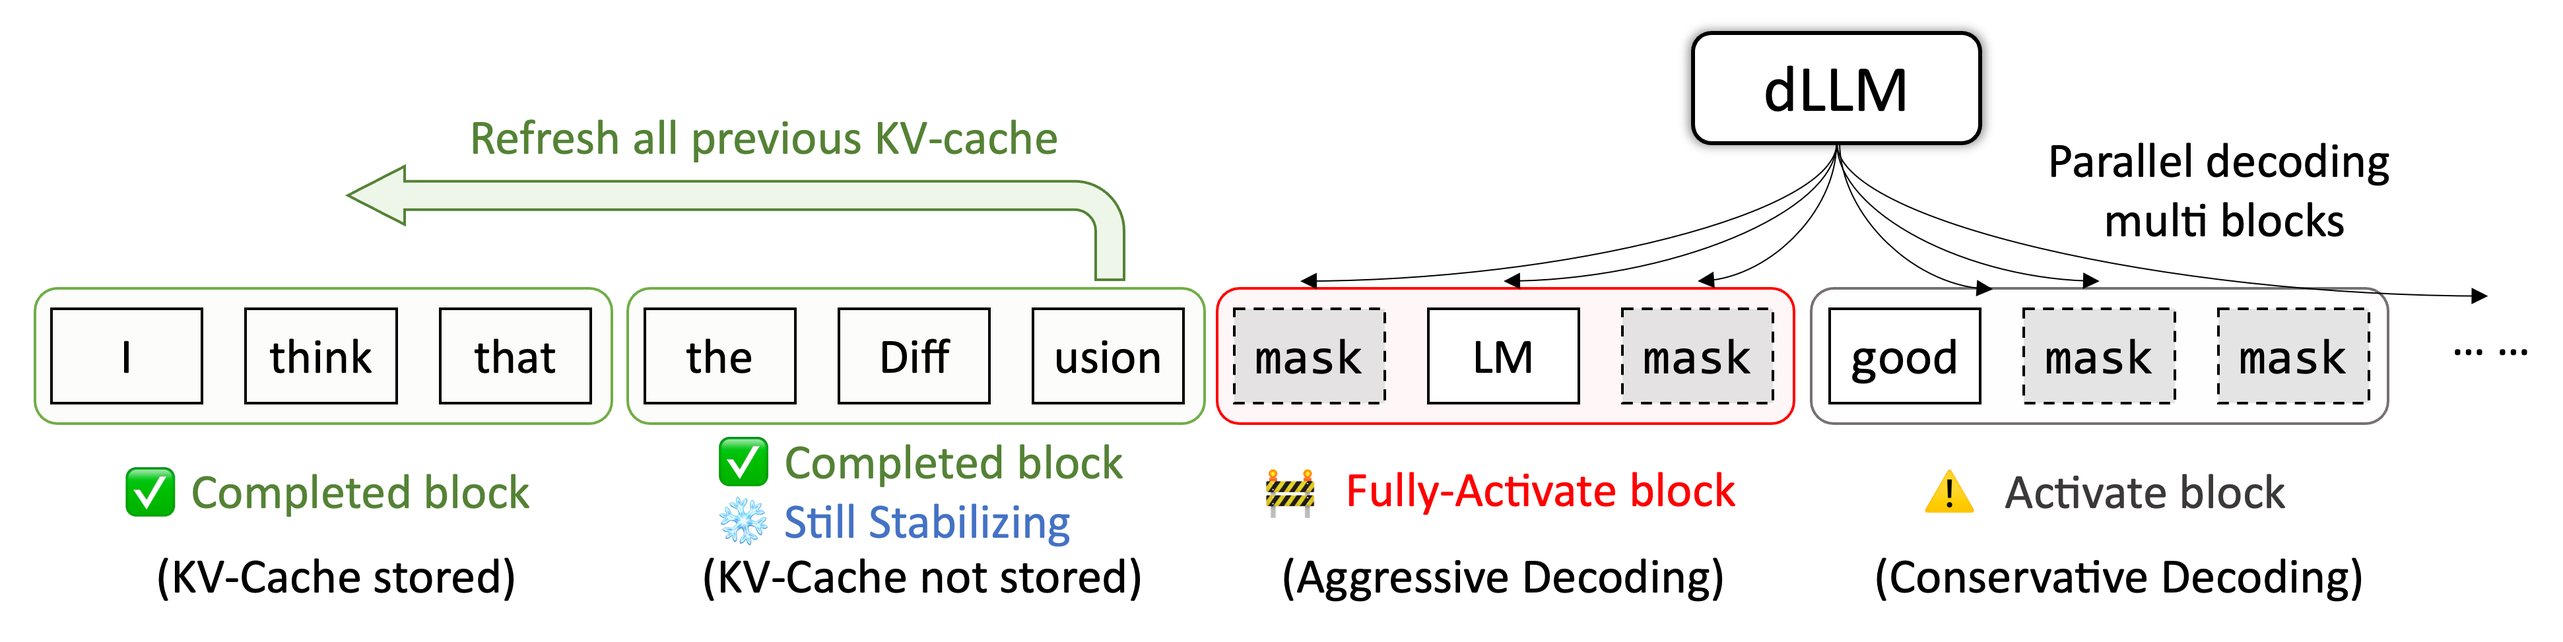
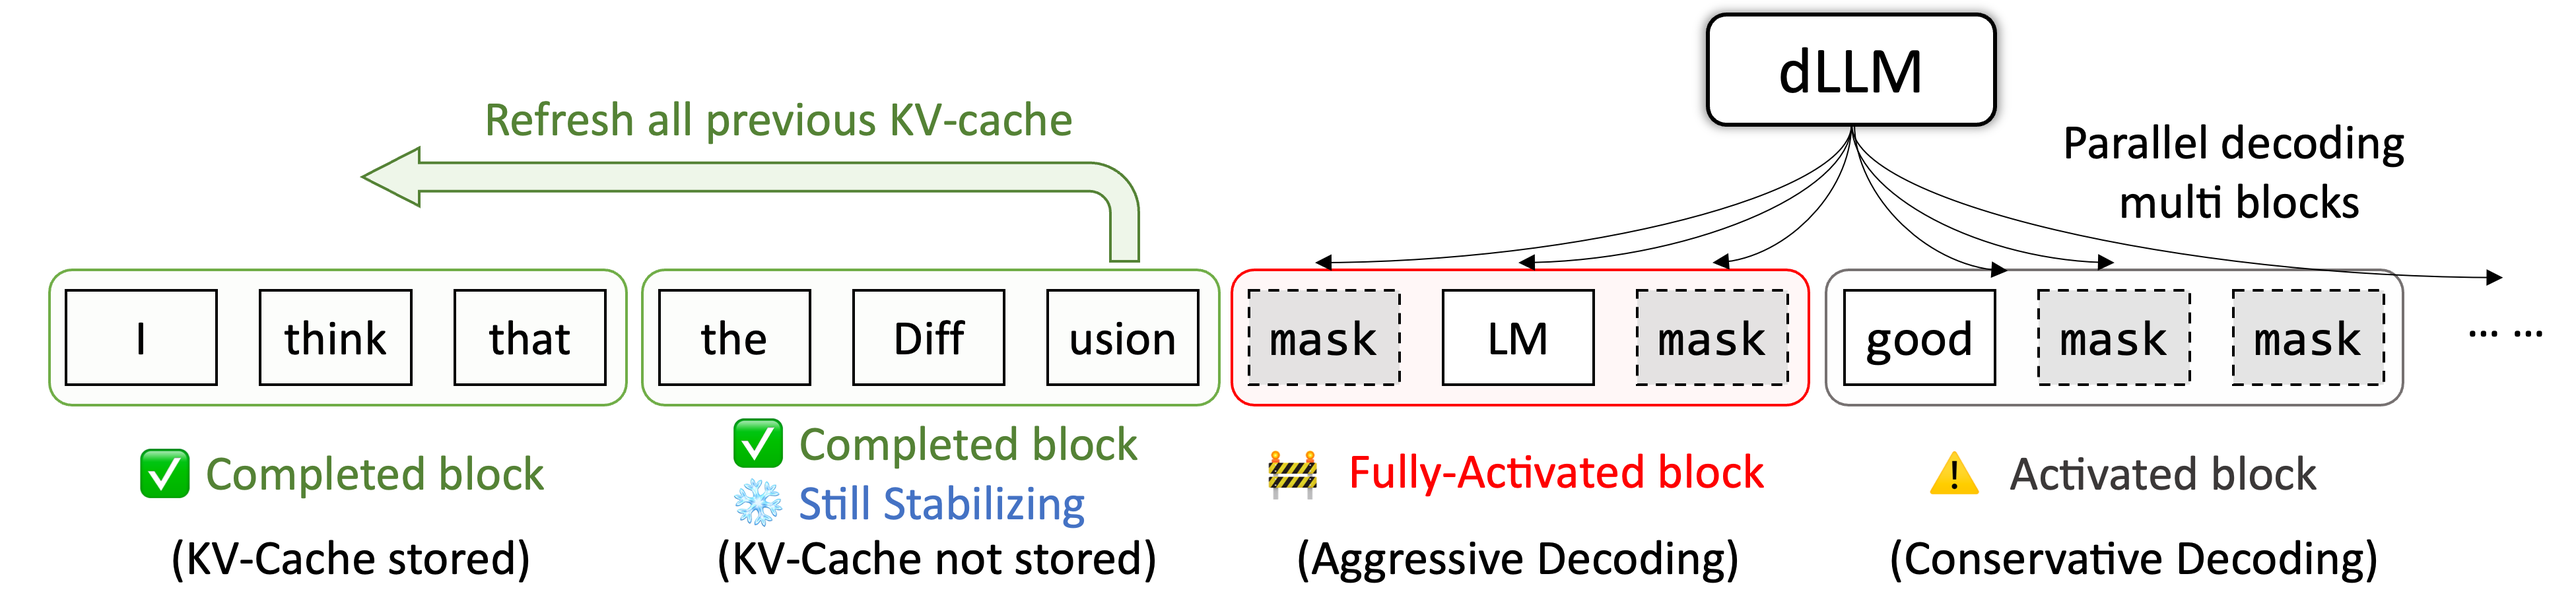
Refine text, update img

diff --git a/content/blogs/text-diffusion/index.md b/content/blogs/text-diffusion/index.md
@@ -23,7 +23,7 @@ draft = false
 
 {{< justify >}}
 
-**TL;DR:** Existing dLLM works often focus on either one side (either efficiency or performance) of dLLM. In this work, we introduce a new metric, *Accuracy Under Parallelism* (AUP), that jointly evaluates the performance and parallelism of diffusion large language models (dLLMs). To achieve a higher AUP, we propose *d3LLM* (*pseuDo-Distilled Diffusion LLM*), a framework that incorporates a novel distillation method and decoding strategy, achieving a balance between efficiency and performance.
+**TL;DR:** Existing dLLM works typically focus on either one side (either efficiency or performance) of dLLM. In this work, we introduce a new metric, *Accuracy Under Parallelism* (AUP), that jointly evaluates the performance and parallelism of diffusion large language models (dLLMs). To achieve a higher AUP, we propose *d3LLM* (*pseuDo-Distilled Diffusion LLM*), a framework that incorporates a novel distillation method and decoding strategy, achieving a balance between efficiency and performance.
 
 
 {{< /justify >}}
@@ -95,9 +95,9 @@ draft = false
 
 Diffusion large language models (dLLMs) have emerged as a promising alternative to autoregressive (AR) LLMs. A key advantage of dLLMs is the use of *bidirectional attention*, which enables parallel decoding, error correction, and random-order generation—capabilities that are not feasible for AR models. Recently, several closed-source diffusion models, including [Mercury](https://arxiv.org/abs/2506.17298), [Gemini Diffusion](https://deepmind.google/models/gemini-diffusion/), and [Seed Diffusion](https://arxiv.org/abs/2508.02193), have demonstrated impressive efficiency and performance, achieving high decoding speeds and competitive results relative to AR models. In contrast, open-source diffusion language models have shown substantially ***lower throughput***, often performing even slower than AR LLMs. For example, [LLaDA](https://arxiv.org/abs/2502.09992) and [Dream](https://arxiv.org/abs/2508.15487) reach only about 20 tokens per second, whereas closed-source dLLMs exceed 1000 tokens per second. Besides, the ***inferior performance*** of open-sourced dLLMs compared to similar-sized AR models also limits their practical applications.
 
-With the growing interest from the research community, an increasing number of methods have been proposed to improve the dLLMs. On one side, many recent efforts focus on accelerating diffusion language models by designing KV-cache mechanisms, parallel decoding strategies, and other system-level optimizations [[1](https://arxiv.org/abs/2505.22618), [2](https://arxiv.org/abs/2505.15781), [3](https://arxiv.org/abs/2508.09192), [4](https://arxiv.org/abs/2509.26488), [5](https://arxiv.org/abs/2509.26328), [6](https://arxiv.org/abs/2510.08666)]. On the other side, another line of work focuses on improving their performance by employing more advanced training strategies, extending context length, multi-modal capabilities, incorporating reasoning capabilities, and collecting larger or higher-quality datasets [[7](https://huggingface.co/collections/inclusionAI/llada-20), [8](https://arxiv.org/abs/2510.06303), [9](https://arxiv.org/abs/2505.15809)]. However, we find that: ***most previous works focus on either one side (either efficiency or performance) of dLLM***. 
+With growing interest from the research community, an increasing number of methods have been proposed to improve dLLMs. On one hand, many recent efforts aim to accelerate diffusion language models by designing KV-cache mechanisms, parallel decoding strategies, and other system-level optimizations [[1](https://arxiv.org/abs/2505.22618), [2](https://arxiv.org/abs/2505.15781), [3](https://arxiv.org/abs/2508.09192), [4](https://arxiv.org/abs/2509.26488), [5](https://arxiv.org/abs/2509.26328), [6](https://arxiv.org/abs/2510.08666)]. On the other hand, another line of work focuses on improving performance by employing more advanced training strategies, extending context length and multimodal capabilities, incorporating reasoning abilities, and collecting larger or higher-quality datasets [[7](https://huggingface.co/collections/inclusionAI/llada-20), [8](https://arxiv.org/abs/2510.06303), [9](https://arxiv.org/abs/2505.15809)]. However, we observe that ***most previous works focus on only one side of dLLMs, targeting either efficiency or performance***.
 
-We argue that this may because of the misuse of a only a single metric, that existing studies relying and reporting on separate single metrics when assessing dLLMs, such as only reporting tokens per second (TPS) for efficiency, or accuracy for model quality. This may lead to a lack consideration of the ***trade-off*** between efficiency and performance: higher efficiency often leads to lower accuracy, and vice versa. For example, as illustrated in the table below, D2F focuses on improving the efficiency of dLLM, achieve strong parallelism with high tokens per forward (TPF) but experience notable accuracy degradation; whereas Fast-dLLM-v2 focuses on improving the performance of dLLM, achieve high accuracy but exhibit lower TPF. This motivates us to *design an integrated metric that can account for both efficiency and performance*, guide the model to ***striking a balance*** between both, and use this ***integrated metric*** to evaluate the model.
+We argue that this issue arises from the limitations of relying on a single metric. Existing studies often evaluate dLLMs using isolated metrics, such as reporting only tokens per second (TPS) for efficiency or accuracy for model performance. This approach overlooks the inherent ***trade-off*** between efficiency and performance: higher efficiency often leads to lower accuracy, and vice versa. For example, as shown in the table below, D2F emphasizes efficiency by achieving high tokens per forward (TPF) through improved parallelism, but suffers a drop in accuracy. In contrast, Fast-dLLM-v2 achieves higher performance compared to other dLLMs, but with a cost of lower TPF. These observations motivate us to *design an integrated metric* that captures both efficiency and performance, guiding models to ***striking a balance*** between both.
 
 {{< /justify >}}
 
@@ -105,13 +105,14 @@ We argue that this may because of the misuse of a only a single metric, that exi
 
 <figcaption style="text-align: center; color: #808080; margin-top: 10px;">Benchmark results of previous dLLM models, where accuracy and parallelism are evaluated separately using two different metrics (Acc and TPF respectively).</figcaption>
 
-## AUP: Considering Both Performance and Parallelism
+## AUP: Jointly Considering Both Performance and Parallelism
 
 {{< justify >}}
 
-Currently, most of the dLLM methods have a "threshold" when decoding, only the logits higher than the threshold are decoded. Then, by varying the threshold of different values, we can adjust the quality-speed trade-off of the decoding process, and get many parallelism-accuracy pairs, and then plot a curve of accuracy vs. parallelism. This curve is called the ***accuracy-parallelism curve*** (see Figure 1 for an illustration), characterizing a trade-off between efficiency and performance.
+Most dLLM methods adopt a decoding "threshold", where only logits above this threshold are decoded. By varying the threshold, we can adjust the quality–speed trade-off of the decoding process and obtain multiple parallelism–accuracy pairs, which can then be used to plot a curve of accuracy versus parallelism. We refer to this curve as the ***accuracy–parallelism curve*** (see the white curve in Figure 1 for an illustration), which characterizes the trade-off between efficiency and performance.
 
-The most naïve approach is to calculate a score using this curve is the *area under the curve* (AUC), but this is not a reasonable metric, because it is strongly influenced by parallelism even when accuracy degrades substantially, allowing low-quality but fast models to obtain high scores. To this end, we establish ***AUP*** (*Accuracy Under Parallelism*). AUP quantifies how well a model preserves accuracy as the degree of parallelism increases, providing a unified, device-independent measure of a dLLM’s both *efficiency* and *performance*.
+
+The most naïve approach is to calculate a score using this curve is the *area under the curve* (AUC), but this is not a reasonable metric, because it is strongly influenced by parallelism even when accuracy degrades substantially, allowing low-quality but fast models to obtain high scores. To this end, we establish ***AUP*** (*Accuracy Under Parallelism*). AUP quantifies how well a model preserves accuracy as the degree of parallelism increases, providing a unified measure of a dLLM’s both *efficiency* and *performance*.
 
 Formally, let $\mathcal{S} = \{(\rho_i, y_i)\}_{i=1}^m$ be a set of parallelism-accuracy pairs, where $\rho_1 < \rho_2 < \dots < \rho_m$, $\rho_i \in \mathbb{R}^{+}$ denotes the parallelism (measured in _tokens per forward_, TPF), and $y_i \in [0, 100]$ represents accuracy in percentage. We define a minimum accuracy threshold $y_{\min} = y_1 - 5$ to avoid measuring in regimes of significant accuracy degradation. Only points satisfying $y_i \ge y_{\min}$ are included. AUP is then defined as the weighted area under the accuracy-parallelism curve:
 
@@ -143,7 +144,7 @@ where the weighting function is defined as $W(y) = \min(e^{-\alpha \left(1 - {y}
 
 {{< justify >}}
 
-**Application of AUP.** We further evaluate previous methods using our AUP metric, as shown in the results in the [Leaderboard](#-diffusion-llm-leaderboard-using-aup-score), it shows that previous dLLM methods although achieve higher AUP then vanilla Dream and LLaDA, but they are not able to beat the speculative decoding methods (EAGLE-3). We claim that this do not Negated the capability of the dLLM. In the following, we will introduce our proposed d3LLM to achieve the highest AUP score in all dLLMs.
+**Application of AUP.** We further evaluate previous methods using our AUP metric. As shown in the results in the [Leaderboard](#-diffusion-llm-leaderboard-using-aup-score), although existing dLLM methods achieve higher AUP scores than vanilla Dream and LLaDA, they still lag behind speculative decoding methods (e.g., EAGLE-3). We argue that this does not negate the potential of dLLMs. In the following, we introduce our proposed d3LLM framework, which attains the highest AUP score among all dLLMs.
 
 {{< /justify >}}
 
@@ -152,32 +153,31 @@ where the weighting function is defined as $W(y) = \min(e^{-\alpha \left(1 - {y}
 
 
 {{< justify >}}
-{{< image src="img/example.gif" alt="d3LLM: Ultra-fast diffusion language model" width="100%" title="Demo of our d3LLM, which achieves up to 5× speedup over the AR (Qwen-2.5-7B-it) on H100 GPU and 3.5× speedup on A100 GPU. You can try 🕹 [our demo](https://d3llm-team.github.io/).">}}
+{{< image src="img/example.gif" alt="d3LLM: Ultra-fast diffusion language model" width="100%" title="Figure 2. Demo of our d3LLM, which achieves up to 5× speedup over the AR (Qwen-2.5-7B-it) on H100 GPU and 3.5× speedup on A100 GPU. You can try 🕹 [our demo](https://d3llm-team.github.io/).">}}
 
 {{< /justify >}}
 
 {{< justify >}}
 
-Following the guidance of the AUP score, we introduce ***d3LLM*** (*pseuDo-Distillated-Diffusion Large Language Model*), a novel framework for achieving dLLMs with both high accuracy and high parallelism. Our d3LLM approach not only improves parallelism but also preserves model performance, with only minimal accuracy degradation compared to vanilla LLaDA/Dream models.
+Following the guidance of the AUP score, we introduce ***d3LLM*** (*pseuDo-Distillated-Diffusion Large Language Model*), a novel framework for constructing dLLMs with both high accuracy and high parallelism. Our d3LLM approach not only improves parallelism but also preserves model performance, with only minimal accuracy degradation compared to standard LLaDA/Dream models.
 
-First, to ***improve the parallelism***, we carefully study the behaviour of dLLM and finds that the key to high parallelism is that model can unmask multiple tokens at each forward pass. Previous work often overlook the distillation process, and typically adopt single-block decoding strategy. This motivates us to select the ***distillation*** and ***multi-block decoding*** as two key techniques to improve the parallelism, where distillation is used to guide the model to unmask as more as possible multiple tokens following the teacher model, and multi-block decoding is designed to fully exploit the parallel generation capabilities of the dLLM.
+First, to ***improve parallelism***, we carefully study the behavior of dLLMs and find that the key to high parallelism is enabling the model to unmask multiple tokens at each forward pass. Previous work often overlooks the trajectory in distillation process and typically adopts a single-block decoding strategy. This motivates us to adopt ***trajectory-based distillation*** and ***multi-block decoding*** as two key techniques for improving parallelism. Distillation is used to guide the model to unmask as many tokens as possible, while multi-block decoding is designed to fully exploit the parallel decoding capability of the dLLM.
 
-Secondly, to ***preserve the accuracy***, we find that the robustness in both distillation and decoding are of great importance. Therefore, we design a ***curriculum learning*** technique to gradually increase the masking ratio from easy scenarios (few masks) to harder ones (many masks) during training and get a more robust distillation process. Besides, we find that the multi-block decoding process may cause a performance drop as the *bidirectional attention* in dLLM may cause a harm to the accuracy. This motivates us to design a ***KV-cache refresh*** mechanism to refresh the KV cache to maintain the accuracy.
+Second, to ***preserve accuracy***, we find that robustness in both distillation and decoding is crucial. Therefore, we design a ***curriculum learning strategy*** that gradually increases the masking ratio from easier scenarios (few masks) to more difficult ones (many masks) during training, resulting in a more robust distillation process. Moreover, we observe that the multi-block decoding process may cause a performance drop, as the *bidirectional attention* in dLLMs may harm accuracy. This motivates us to design a ***KV-cache refresh*** mechanism to update the KV cache and maintain accuracy.
 
-Together, these techniques enable d3LLM to achieve a balance between accuracy and parallelism, and achieve the highest AUP score in all dLLMs. We will introduce the details of the d3LLM framework in the following.
+Together, these techniques enable d3LLM to strike a balance between accuracy and parallelism and to obtain the highest AUP score among all dLLMs. We will introduce details of the d3LLM framework in the following.
 
 
 {{< /justify >}}
-
-{{< image src="img/fig_distillation.png" alt="Distillation Illustration" width="100%" title="Illustration of our pseudo-trajectory-based distillation recipe.">}}
-
 
 
 {{< justify >}}
 
 ### (i) Pseudo-Trajectory-based Distillation Recipe
 
-We propose a novel **trajectory-based distillation** recipe with curriculum learning, which is crucial for enhancing parallelism while maintaining model accuracy. This advanced distillation approach aims at improving decoding efficiency and alignment with the teacher model's generation pattern. Specifically, it consists of the following key techniques:
+{{< image src="img/fig_distillation.png" alt="Distillation Illustration" width="100%" title="Figure 3. Illustration of our pseudo-trajectory-based distillation recipe.">}}
+
+We first introduce our **trajectory-based distillation** recipe with curriculum learning, which is crucial for enhancing parallelism while maintaining model accuracy. This advanced distillation recipe aims at improving decoding efficiency and alignment with the teacher model's generation pattern. Specifically, it consists of the following key techniques:
 
 {{< /justify >}}
 
@@ -226,12 +226,15 @@ We propose a novel **trajectory-based distillation** recipe with curriculum lear
 {{< /justify >}}
 
 
-{{< image src="img/fig_decoding.png" alt="Decoding Illustration" width="100%" title="Illustration of our multi-block decoding strategy with KV-cache and refresh.">}}
+---
+
+{{< justify >}}
 
 
 ### (ii) Multi-Block Decoding Strategy
 
-{{< justify >}}
+{{< image src="img/fig_decoding.png" alt="Decoding Illustration" width="100%" title="Figure 4. Illustration of our multi-block decoding strategy with KV-cache and refresh.">}}
+
 
 In addition to the novel distillation recipe, we also introduce an efficient decoding mechanism tailored for dLLM, designed to maximize parallelism while maintaining generation quality. Our decoding strategy includes the following components:
 
@@ -296,7 +299,7 @@ Our experiments are conducted on three foundational diffusion models: LLaDA, Dre
   <img src="img/data_llada_aup_curve_math.png" alt="LLaDA MATH" data-width="29">
   <img src="img/data_llada_aup_curve_long-gsm8k.png" alt="LLaDA Long-GSM8K" data-width="30">
 </div>
-<figcaption style="text-align: center; color: #808080; margin-top: 10px;">Figure 2: AUP curves for LLaDA-based models across five benchmark tasks (GSM8K-CoT, HumanEval, MBPP, MATH, and Long-GSM8K).</figcaption>
+<figcaption style="text-align: center; color: #808080; margin-top: 10px;">Figure 5: AUP curves for LLaDA-based models across five benchmark tasks (GSM8K-CoT, HumanEval, MBPP, MATH, and Long-GSM8K).</figcaption>
 </figure>
 
 <figure>
@@ -304,7 +307,7 @@ Our experiments are conducted on three foundational diffusion models: LLaDA, Dre
   <img src="img/data_llada_aup_histogram.png" alt="LLaDA AUP Histogram" data-width="45">
   <img src="img/data_llada_aup_radar.png" alt="LLaDA AUP Radar" data-width="40">
 </div>
-<figcaption style="text-align: center; color: #808080; margin-top: 10px;">Figure 3: AUP scores and radar chart comparing different LLaDA-based methods.</figcaption>
+<figcaption style="text-align: center; color: #808080; margin-top: 10px;">Figure 6: AUP scores and radar chart comparing different LLaDA-based methods.</figcaption>
 </figure>
 
 {{< justify >}}
@@ -323,7 +326,7 @@ Our experiments are conducted on three foundational diffusion models: LLaDA, Dre
   <img src="img/data_dream_aup_curve_math.png" alt="Dream MATH" data-width="30">
   <img src="img/data_dream_aup_curve_long-gsm8k.png" alt="Dream Long-GSM8K" data-width="31">
 </div>
-<figcaption style="text-align: center; color: #808080; margin-top: 10px;">Figure 4: AUP curves for Dream-based models across five benchmark tasks (GSM8K-CoT, HumanEval_Instruct, MBPP_Instruct, MATH, and Long-GSM8K).</figcaption>
+<figcaption style="text-align: center; color: #808080; margin-top: 10px;">Figure 7: AUP curves for Dream-based models across five benchmark tasks (GSM8K-CoT, HumanEval_Instruct, MBPP_Instruct, MATH, and Long-GSM8K).</figcaption>
 </figure>
 
 <figure>
@@ -331,7 +334,7 @@ Our experiments are conducted on three foundational diffusion models: LLaDA, Dre
   <img src="img/data_dream_aup_histogram.png" alt="Dream AUP Histogram" data-width="50">
   <img src="img/data_dream_aup_radar.png" alt="Dream AUP Radar" data-width="44">
 </div>
-<figcaption style="text-align: center; color: #808080; margin-top: 10px;">Figure 5: AUP scores and radar chart comparing different Dream-based methods.</figcaption>
+<figcaption style="text-align: center; color: #808080; margin-top: 10px;">Figure 8: AUP scores and radar chart comparing different Dream-based methods.</figcaption>
 </figure>
 
 {{< justify >}}
@@ -365,7 +368,7 @@ The experimental results also validate the reliability of our AUP metric. For ex
   <img src="img/data_dream_coder_aup_curve_mbpp.png" alt="Dream-Coder MBPP" data-width="22.5">
   <img src="img/data_dream_coder_aup_curve_mbpp+.png" alt="Dream-Coder MBPP+" data-width="23.5">
 </div>
-<figcaption style="text-align: center; color: #808080; margin-top: 10px;">Figure 6: Evaluation for Coders across four coding benchmarks (HumanEval, HumanEval+, MBPP, MBPP+).</figcaption>
+<figcaption style="text-align: center; color: #808080; margin-top: 10px;">Figure 9: Evaluation for Coders across four coding benchmarks (HumanEval, HumanEval+, MBPP, MBPP+).</figcaption>
 </figure>
 
 <figure>
@@ -373,7 +376,7 @@ The experimental results also validate the reliability of our AUP metric. For ex
   <img src="img/data_dream_coder_aup_histogram.png" alt="Dream-Coder AUP Histogram" data-width="50">
   <img src="img/data_dream_coder_aup_radar.png" alt="Dream-Coder AUP Radar" data-width="39">
 </div>
-<figcaption style="text-align: center; color: #808080; margin-top: 10px;">Figure 7: AUP scores and radar chart comparing different Coder-based methods.</figcaption>
+<figcaption style="text-align: center; color: #808080; margin-top: 10px;">Figure 10: AUP scores and radar chart comparing different Coder-based methods.</figcaption>
 </figure>
 
 
